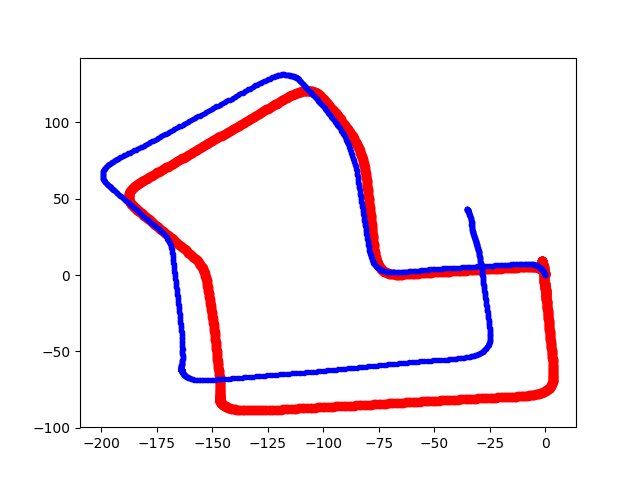
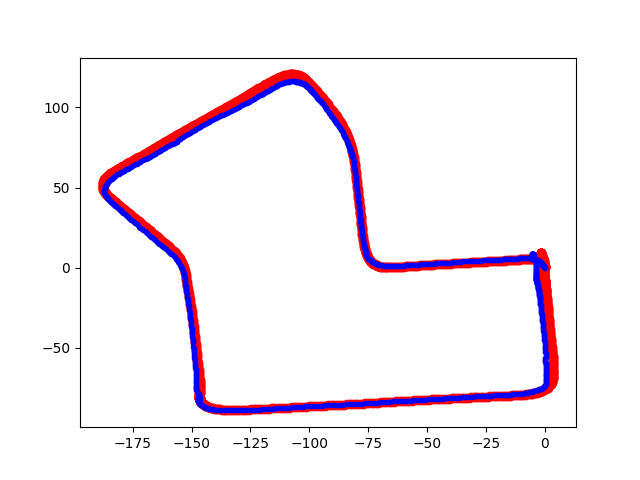
dd

diff --git a/PrepData.py b/PrepData.py
@@ -3,6 +3,7 @@ import pandas as pd
 #import matplotlib.pyplot as plt
 import os, os.path
 import cv2
+import time
 
 def pos2vel(pos):
     vel = np.zeros_like(pos)
@@ -43,42 +44,61 @@ def getData(seq):
     return of, vel, pos, DCM
 
 def getImage(seq):
-    imgList = (np.load('Data/Images/seq' + str(seq) + '.npy'))/255.0 - 0.5
-    img1 = imgList[:-1,:,:,:]
-    img2 = imgList[1:,:,:,:]
-    return img1, img2
+    imgList = np.load('Data/Images/seq' + str(seq) + '.npy')
+    img1List = imgList[:-1,:,:,:]
+    img2List = imgList[1:,:,:,:]
+    return img1List, img2List
 
 def getMergedData(seqList):
     ofList = None
     velList = None
     posList = None
     DCMList = None
-    img1List = None
-    img2List = None
-
+    imgList1 = []
+    imgList2 = []
+    totalImgNumber = 0
+    d1,d2 = 0,0
     for seq in seqList:
         print 'Reading seq ' + str(seq)
         of, vel, pos, DCM = getData(seq)
         img1, img2 = getImage(seq)
+        totalImgNumber += img1.shape[0]
         ofList = of if ofList is None else np.concatenate([ofList, of], axis=0)
         velList = vel if velList is None else np.concatenate([velList, vel], axis=0)
         posList = pos if posList is None else np.concatenate([posList, pos], axis=0)
         DCMList = DCM if DCMList is None else np.concatenate([DCMList, DCM], axis=0)
-        img1List = img1 if img1List is None else np.concatenate([img1List, img1], axis=0)
-        img2List = img2 if img2List is None else np.concatenate([img2List, img2], axis=0)
+        imgList1.append(img1)
+        imgList2.append(img2)
         print 'Done reading seq ' + str(seq)
 
-    return ofList, velList, posList, DCMList, img1List, img2List
+    print '%d data points are being prepared...' %(totalImgNumber)
+
+    imgTotal1 = np.ndarray(shape=(totalImgNumber,360,640,3), dtype='float16')
+    imgTotal2 = np.ndarray(shape=(totalImgNumber,360,640,3), dtype='float16')
+
+    end = 0
+    for i in range(0,len(seqList)):
+        img1 = imgList1[i]
+        img2 = imgList2[i]
+        imgNum = img1.shape[0]
+        start = end
+        end = start+imgNum
+        print 'changing data type and concatenating for seq %d ...' %(seqList[i])
+        imgTotal1[start:end,:,:,:] = img1.astype('float16')/255.0-0.5
+        imgTotal2[start:end,:,:,:] = img2.astype('float16')/255.0-0.5
+
+    print 'Done data prep.'
+    return ofList, velList, posList, DCMList, imgTotal1, imgTotal2
 
 if __name__ == '__main__':
-    of, vel, DCM, img1, img2 = getMergedData([2])
-
-
+    start = time.time()
+    print 'starting...'
+    of, vel, pos, DCM, img1, img2 = getMergedData([1,4])
     print of.shape
     print vel.shape
     print DCM.shape
     print img1.shape
     print img2.shape
 
-
-    #end
+    end = time.time()
+    print 'time elapsed: %f' %(end - start)

diff --git a/Model.py b/Model.py
@@ -8,19 +8,18 @@ def getModel(h,w):
     input0 = Input(shape=(h, w, 3))
     input1 = Input(shape=(h, w, 3))
     input =  concatenate([input0, input1], axis=3)
-    conv1 =  Conv2D(64,   (3, 3), name = 'conv1',   strides = 2, padding='same', activation=LeakyReLU())(input)
-    conv2 =  Conv2D(128,  (3, 3), name = 'conv2',   strides = 2, padding='same', activation=LeakyReLU())(conv1)
-    conv3 =  Conv2D(256,  (3, 3), name = 'conv3_1', strides = 2, padding='same', activation=LeakyReLU())(conv2)
-    conv4 =  Conv2D(512,  (3, 3), name = 'conv4_1', strides = 2, padding='same', activation=LeakyReLU())(conv3)
-    conv5 =  Conv2D(1024, (3, 3), name = 'conv5_1', strides = 2, padding='same', activation=LeakyReLU())(conv4)
-    trans =  Conv2D(2,    (1, 1), name = 'trans',   strides = 1, padding='same', activation='tanh')(conv5)
+    conv1 =  Conv2D(64,   (3, 3), name = 'conv0',   strides = 2, padding='same', activation=LeakyReLU())(input)
+    conv2 =  Conv2D(128,  (3, 3), name = 'conv1',   strides = 2, padding='same', activation=LeakyReLU())(conv1)
+    conv3 =  Conv2D(256,  (3, 3), name = 'conv2',   strides = 2, padding='same', activation=LeakyReLU())(conv2)
+    conv4 =  Conv2D(512,  (3, 3), name = 'conv3',   strides = 2, padding='same', activation=LeakyReLU())(conv3)
+    conv5 =  Conv2D(1024, (3, 3), name = 'conv4',   strides = 2, padding='same', activation=LeakyReLU())(conv4)
+    trans =  Conv2D(2,    (1, 1), name = 'op_flow', strides = 1, padding='same', activation='tanh')(conv5)
 
     input2 = Input(shape=(9,))
     merged = concatenate([input2, Flatten()(trans)], axis=1)
     dense =  Dense(128, activation=LeakyReLU())(merged)
+    dense =  Dense(64,  activation=LeakyReLU())(dense)
     dense =  Dense(16,  activation=LeakyReLU())(dense)
-    dense =  Dense(20,  activation=LeakyReLU())(dense)
-    dense =  Dense(10,  activation=LeakyReLU())(dense)
     vel =    Dense(3,   activation='linear')(dense)
 
     model = Model(inputs=[input0, input1, input2], outputs=vel)

diff --git a/main.py b/main.py
@@ -8,22 +8,27 @@ from keras.callbacks import EarlyStopping
 import pickle
 
 def runTrainCNN():
-    fn = getModel(320, 1152)
+    fn = getModel(360, 640)
     fn.load_weights('Weights/b3_evenlight.h5')
-    of, vel, pos, DCM, img1, img2 = getMergedData([7])
+    of, vel, pos, DCM, img1, img2 = getMergedData([0, 2, 6, 4])
     earlystop = EarlyStopping(monitor='loss', min_delta=10**-5, patience=5, verbose=1, mode='auto')
     callbacks_list = [earlystop]
-    history = fn.fit([img1, img2, DCM], vel, epochs=15, batch_size=32, verbose=1,  shuffle=True, callbacks=callbacks_list)
+    history = fn.fit([img1, img2, DCM], vel, epochs=10, batch_size=32, verbose=1,  shuffle=True, callbacks=callbacks_list)
     fn.save_weights('Weights/b3_evenlight.h5')
     print 'done'
 
 
 def runTest():
-    m = getModel(320, 1152)
+    m = getModel(360, 640)
     m.load_weights('Weights/b3_evenlight.h5')
-    of, vel, pos, DCM, img1, img2 = getMergedData([7])
-    pred_vel_list = []
+    runTestSeq(m,6)
+    for seq in range(0,11):
+        runTestSeq(m,seq)
 
+
+def runTestSeq(m,seq):
+    of, vel, pos, DCM, img1, img2 = getMergedData([seq])
+    pred_vel_list = []
     i = 0
     while i < img1.shape[0]:
         inputImg1 = img1[i:i+10,:,:,:]
@@ -51,18 +56,23 @@ def runTest():
     print 'rmse=%f' %(rmse)
 
 
-    plt.figure()
+    fig = plt.figure()
     plt.plot(vel, 'r')
     plt.plot(pred_vel, 'b')
-    plt.show()
+    #plt.show()
+    fig.savefig('Results/seq' + str(seq) + '_vel.png')
 
 
     pred_pos = vel2pos(pred_vel)
-    plt.figure()
+    fig = plt.figure()
     plt.plot(pos[:,0], pos[:,2], 'ro')
     plt.plot(pred_pos[:,0], pred_pos[:,2], 'b.')
-    plt.show()
-
+    if seq == 4:
+        plt.xlim((-200, 200))
+    if seq == 6:
+        plt.xlim((-50, 50))
+    #plt.show()
+    fig.savefig('Results/seq' + str(seq) + '_pos.png')
 
 if __name__=='__main__':
     type = int(sys.argv[1])

diff --git a/Data/GenerateFlow/Img2Bin.py b/Data/GenerateFlow/Img2Bin.py
@@ -34,7 +34,8 @@ def getImage(seq, side=0):
     while (index < numFile):
         fName_curr = imgDir + getImgName(index)
         img_curr = cv2.imread(fName_curr)
-        img_curr = cv2.resize(img_curr, (1152,320))
+        img_curr = cv2.resize(img_curr, (640,360))
+        img_curr = np.array(img_curr)
         imgList.append(img_curr)
         index += 1
         if index%100==0:
@@ -48,6 +49,6 @@ def getImage(seq, side=0):
 
 
 if __name__ == '__main__':
-    #getImage(5)
+    #getImage(0)
     for i in range(0,11):
         getImage(i)
